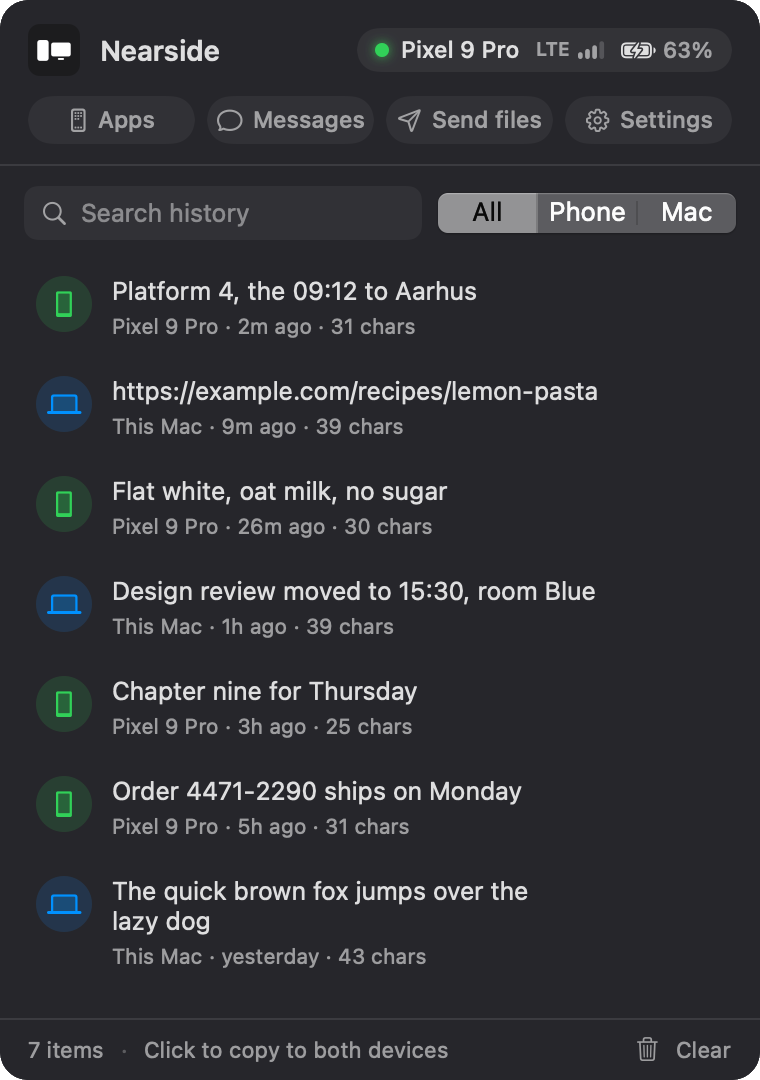
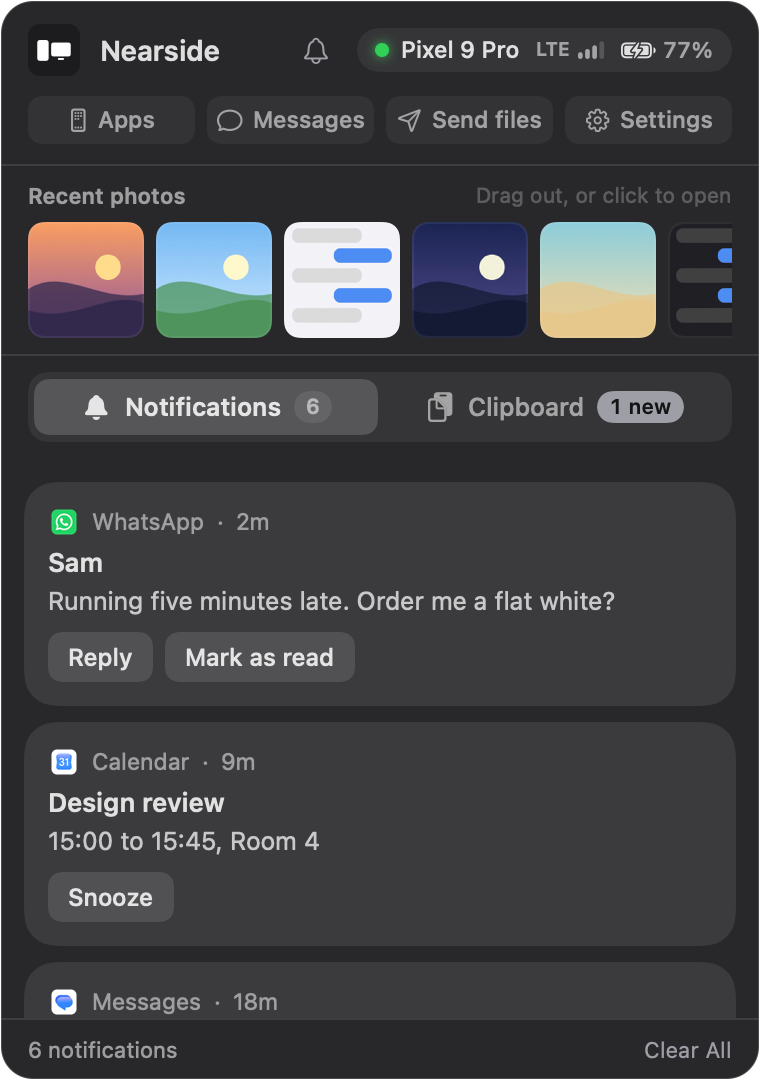
README and site: download buttons, new tagline, current panel pictures
- Download buttons link to releases/latest/download/<fixed name>, so they always
  get the newest version; the release scripts make those copies. The site gets a
  three-step Get Nearside section (with the unsigned-installer note) and puts the
  Windows button first on Windows.
- Tagline: Continuity the way it was meant to be.
- The panel pictures show today's panel (photos, Notifications and Clipboard
  tabs), with sample content from a new test mode (NEARSIDE_TEST_DEMO) that
  never touches the saved history.

diff --git a/site/index.html b/site/index.html
@@ -5,7 +5,7 @@
 <meta name="viewport" content="width=device-width, initial-scale=1">
 <title>Nearside: Continuity for Android, on your Mac or PC</title>
 <meta name="description" content="The most seamless way to use an Android phone with a Mac or a Windows PC: one clipboard, notifications, texts and calls, files, and every phone app in its own window. Open source, no cloud, no account.">
-<meta property="og:title" content="Nearside: Continuity, without the lock-in">
+<meta property="og:title" content="Nearside: Continuity the way it was meant to be">
 <meta property="og:description" content="Use the Android phone you want with the Mac or PC you want: one clipboard, notifications, texts, calls, files and every phone app in its own window. Open source, no cloud.">
 <meta property="og:image" content="https://ramiejleh.github.io/Nearside/images/hero.jpg">
 <meta name="theme-color" content="#E8E9EC" media="(prefers-color-scheme: light)">
@@ -33,6 +33,7 @@
     <a href="#apps">Phone apps</a>
     <a href="#everyday">Everyday</a>
     <a href="#how">How it works</a>
+    <a href="#download">Download</a>
     <a href="#tested">Tested</a>
     <a href="#support">Support</a>
     <a class="pill" href="https://github.com/ramiejleh/Nearside">GitHub</a>
@@ -44,13 +45,13 @@
   <!-- The one orchestrated moment: things cross from the phone to the Mac. -->
   <section class="hero">
     <div class="hero-text">
-      <h1>Continuity, without the lock&#8209;in.</h1>
+      <h1>Continuity the way it was meant to be.</h1>
       <p class="lede">The most seamless way to use an Android phone with a Mac or a Windows PC. Copy on one and paste on the other, answer notifications, texts and calls from your computer, drop files either way, and open any phone app in its own window, with the phone still locked in your pocket.</p>
       <div class="actions">
-        <a class="button primary" href="https://github.com/ramiejleh/Nearside">View on GitHub</a>
-        <a class="button" href="#how">How it works</a>
+        <a class="button primary" data-os="mac" href="https://github.com/ramiejleh/Nearside/releases/latest/download/Nearside-mac.zip">Download for Mac</a>
+        <a class="button" data-os="windows" href="https://github.com/ramiejleh/Nearside/releases/latest/download/Nearside-windows-x64.exe">Download for Windows</a>
       </div>
-      <p class="fine">Free and open source. macOS 14 or later, or Windows 11; Android 11 or later. No cloud, no account.</p>
+      <p class="fine">Free and open source. macOS 14 or later, or Windows 11 (<a href="https://github.com/ramiejleh/Nearside/releases/latest/download/Nearside-windows-arm64.exe">for Arm PCs</a>); Android 11 or later. No cloud, no account. <a href="#download">How to set it up</a>.</p>
     </div>
 
     <div class="stage" role="img" aria-label="A clip and a phone app travel from an Android phone to a Mac, then a message arrives on both at once">
@@ -153,7 +154,7 @@
       </div>
 
       <div class="pair flip">
-        <img src="images/window-notifications.png" alt="The phone window's notification panel with notifications, their buttons and reply" loading="lazy">
+        <img src="images/window-panel-notifications.png" alt="Nearside's panel: the phone's recent photos and its notifications, with their buttons (sample content)" loading="lazy">
         <div>
           <h3>Notifications you can act on</h3>
           <p>Your phone's notifications arrive as real macOS or Windows notifications, with their buttons and inline replies, and the panel lists what's on the phone now. Dismiss one on either device and it's gone on both, open it in a window right where it points, or mute them all for a few hours.</p>
@@ -212,6 +213,28 @@
     </div>
   </section>
 
+  <section id="download" class="download">
+    <div class="wrap">
+      <h2>Get Nearside.</h2>
+      <p class="intro">Three steps, about five minutes. Nothing to sign up for.</p>
+      <ol class="steps">
+        <li>
+          <h3>Download it</h3>
+          <p><a href="https://github.com/ramiejleh/Nearside/releases/latest/download/Nearside-mac.zip">For Mac</a> (macOS 14 or later): open the zip and drag Nearside to Applications. <a href="https://github.com/ramiejleh/Nearside/releases/latest/download/Nearside-windows-x64.exe">For Windows</a> (Windows 11; <a href="https://github.com/ramiejleh/Nearside/releases/latest/download/Nearside-windows-arm64.exe">Arm PCs</a>): run the installer.</p>
+        </li>
+        <li>
+          <h3>Open it</h3>
+          <p>It shows a QR code. On Windows, the installer isn't code-signed yet (a certificate costs money every year), so Windows says it protected your PC: choose <b>More info</b>, then <b>Run anyway</b>.</p>
+        </li>
+        <li>
+          <h3>Scan it with your phone</h3>
+          <p>On the phone, turn on <b>Developer options &rarr; Wireless debugging</b>, choose <b>Pair device with QR code</b> and scan. Your computer installs the phone app and does the rest. No Developer options yet? In <b>Settings &rarr; About phone</b>, tap <b>Build number</b> seven times.</p>
+        </li>
+      </ol>
+      <p class="fine">Both apps update themselves, and the phone app with them. Every version, with checksums, is on <a href="https://github.com/ramiejleh/Nearside/releases">GitHub</a>.</p>
+    </div>
+  </section>
+
   <section id="support" class="support">
     <div class="wrap">
       <h2>Keep it free and getting better.</h2>
@@ -225,6 +248,15 @@
   </section>
 
 </main>
+
+<script>
+  // On Windows, the Windows download comes first.
+  if (/Windows/.test(navigator.userAgent)) {
+    const mac = document.querySelector('[data-os="mac"]'), win = document.querySelector('[data-os="windows"]');
+    mac.classList.remove('primary'); win.classList.add('primary');
+    win.parentNode.insertBefore(win, mac);
+  }
+</script>
 
 <footer class="foot">
   <div class="wrap">

diff --git a/mac/Sources/Nearside/DemoContent.swift b/mac/Sources/Nearside/DemoContent.swift
@@ -1,0 +1,80 @@
+import AppKit
+import NearsideCore
+
+/// Sample clips and photos for pictures of the panel (NEARSIDE_TEST_DEMO=1): made up and drawn
+/// here, so no one's own content ever appears in the README or on the website.
+enum DemoContent {
+    static var clips: [ClipItem] {
+        let now = Date()
+        func clip(_ text: String, _ source: ClipItem.Source, _ minutes: Double) -> ClipItem {
+            ClipItem(text: text, source: source, date: now.addingTimeInterval(-minutes * 60))
+        }
+        return [
+            clip("Platform 4, the 09:12 to Aarhus", .android, 2),
+            clip("https://example.com/recipes/lemon-pasta", .mac, 9),
+            clip("Flat white, oat milk, no sugar", .android, 26),
+            clip("Design review moved to 15:30, room Blue", .mac, 64),
+            clip("Chapter nine for Thursday", .android, 180),
+            clip("Order 4471-2290 ships on Monday", .android, 300),
+        ]
+    }
+
+    /// Landscapes and two screenshots, drawn as JPEG thumbnails.
+    static var photos: [(PhonePhoto, Data)] {
+        let now = Date()
+        let scenes: [(sky: (NSColor, NSColor), land: NSColor, sun: NSColor?, screenshot: Bool)] = [
+            ((.init(red: 0.98, green: 0.62, blue: 0.38, alpha: 1), .init(red: 0.55, green: 0.33, blue: 0.62, alpha: 1)), .init(red: 0.2, green: 0.16, blue: 0.3, alpha: 1), .init(red: 1, green: 0.86, blue: 0.55, alpha: 1), false),
+            ((.init(red: 0.45, green: 0.72, blue: 0.95, alpha: 1), .init(red: 0.82, green: 0.92, blue: 1, alpha: 1)), .init(red: 0.3, green: 0.58, blue: 0.36, alpha: 1), .init(red: 1, green: 0.97, blue: 0.8, alpha: 1), false),
+            ((.init(red: 0.95, green: 0.95, blue: 0.97, alpha: 1), .init(red: 0.95, green: 0.95, blue: 0.97, alpha: 1)), .white, nil, true),
+            ((.init(red: 0.1, green: 0.14, blue: 0.32, alpha: 1), .init(red: 0.32, green: 0.3, blue: 0.55, alpha: 1)), .init(red: 0.08, green: 0.1, blue: 0.2, alpha: 1), .init(red: 0.95, green: 0.95, blue: 0.85, alpha: 1), false),
+            ((.init(red: 0.55, green: 0.8, blue: 0.85, alpha: 1), .init(red: 0.95, green: 0.88, blue: 0.7, alpha: 1)), .init(red: 0.9, green: 0.78, blue: 0.55, alpha: 1), nil, false),
+            ((.init(red: 0.12, green: 0.12, blue: 0.14, alpha: 1), .init(red: 0.12, green: 0.12, blue: 0.14, alpha: 1)), .black, nil, true),
+        ]
+        return scenes.enumerated().map { i, scene in
+            let name = scene.screenshot ? "Screenshot_demo_\(i).png" : "PXL_demo_\(i).jpg"
+            let photo = PhonePhoto(id: Int64(9_000 + i), name: name, path: "/sdcard/DCIM/\(name)",
+                                   date: now.addingTimeInterval(Double(-i) * 3_600), isScreenshot: scene.screenshot,
+                                   width: 1080, height: 1080, size: 1)
+            return (photo, thumbnail(scene.sky, scene.land, scene.sun, screenshot: scene.screenshot))
+        }
+    }
+
+    private static func thumbnail(_ sky: (NSColor, NSColor), _ land: NSColor, _ sun: NSColor?, screenshot: Bool) -> Data {
+        let size = 256
+        let rep = NSBitmapImageRep(bitmapDataPlanes: nil, pixelsWide: size, pixelsHigh: size, bitsPerSample: 8, samplesPerPixel: 4,
+                                   hasAlpha: true, isPlanar: false, colorSpaceName: .deviceRGB, bytesPerRow: 0, bitsPerPixel: 0)!
+        NSGraphicsContext.saveGraphicsState()
+        NSGraphicsContext.current = NSGraphicsContext(bitmapImageRep: rep)
+        let s = CGFloat(size)
+        NSGradient(starting: sky.1, ending: sky.0)!.draw(in: NSRect(x: 0, y: 0, width: s, height: s), angle: 90)
+        if screenshot {
+            // A chat-like screen: bars of text in bubbles.
+            let dark = sky.0.brightnessComponent < 0.5
+            let bubble = dark ? NSColor(white: 0.25, alpha: 1) : NSColor(white: 0.86, alpha: 1)
+            let accent = NSColor(red: 0.3, green: 0.55, blue: 0.95, alpha: 1)
+            for (j, mine) in [false, true, false, true, false].enumerated() {
+                let width = s * (mine ? 0.5 : 0.6)
+                let rect = NSRect(x: mine ? s - width - 18 : 18, y: s - 46 - CGFloat(j) * 44, width: width, height: 32)
+                (mine ? accent : bubble).setFill()
+                NSBezierPath(roundedRect: rect, xRadius: 14, yRadius: 14).fill()
+            }
+        } else {
+            if let sun {
+                sun.setFill()
+                NSBezierPath(ovalIn: NSRect(x: s * 0.58, y: s * 0.5, width: s * 0.22, height: s * 0.22)).fill()
+            }
+            land.withAlphaComponent(0.75).setFill()
+            let far = NSBezierPath()
+            far.move(to: NSPoint(x: 0, y: s * 0.42))
+            far.curve(to: NSPoint(x: s, y: s * 0.38), controlPoint1: NSPoint(x: s * 0.3, y: s * 0.62), controlPoint2: NSPoint(x: s * 0.62, y: s * 0.3))
+            far.line(to: NSPoint(x: s, y: 0)); far.line(to: .zero); far.close(); far.fill()
+            land.setFill()
+            let near = NSBezierPath()
+            near.move(to: NSPoint(x: 0, y: s * 0.24))
+            near.curve(to: NSPoint(x: s, y: s * 0.3), controlPoint1: NSPoint(x: s * 0.4, y: s * 0.12), controlPoint2: NSPoint(x: s * 0.7, y: s * 0.42))
+            near.line(to: NSPoint(x: s, y: 0)); near.line(to: .zero); near.close(); near.fill()
+        }
+        NSGraphicsContext.restoreGraphicsState()
+        return rep.representation(using: .jpeg, properties: [.compressionFactor: 0.85]) ?? Data()
+    }
+}

diff --git a/core/Sources/NearsideCore/SyncEngine.swift b/core/Sources/NearsideCore/SyncEngine.swift
@@ -96,6 +96,19 @@ public final class SyncEngine {
     }
 
     private var demoNotifications = false
+    /// Sample content (pictures): nothing is saved, and the phone's clips don't replace it.
+    private var demoContent = false
+
+    /// Test hook (pictures for the README and website): sample notifications, clipboard history and
+    /// photos in place of the phone's, in memory only (the history file isn't touched), until the
+    /// app quits. The newest clip shows as just arrived.
+    public func showDemoContent(notifications: [PhoneNotification], clips: [ClipItem], photos: [(PhonePhoto, Data)]) {
+        showDemoNotifications(notifications)
+        demoContent = true
+        history = ClipHistory(items: clips, limit: history.limit)
+        unseenIDs = Set(clips.prefix(1).map(\.id))
+        self.photos.showDemo(photos)
+    }
 
     /// SMS for the Messages window.
     public let messages = MessagesStore()
@@ -613,7 +626,7 @@ public final class SyncEngine {
         case "share-failed":
             if let pkg = message["pkg"] as? String { onShareFailed?(pkg, message["accepts"] as? Bool ?? false) }
         case "clip":
-            guard state == .connected, clipboardSync, let text = message["text"] as? String, !text.isEmpty else { return }
+            guard state == .connected, clipboardSync, !demoContent, let text = message["text"] as? String, !text.isEmpty else { return }
             pasteboard.write(text)
             let item = history.add(text, source: .android)
             unseenIDs.insert(item.id)
@@ -935,7 +948,7 @@ public final class SyncEngine {
     private func macCopied(_ text: String) {
         // Nothing is kept while the phone isn't connected (the panel shows no history then), or
         // while clipboard sync is off.
-        guard state == .connected, clipboardSync else { return }
+        guard state == .connected, clipboardSync, !demoContent else { return }
         history.add(text, source: .mac)
         persist()
         if state == .connected {
@@ -1000,6 +1013,7 @@ public final class SyncEngine {
     }
 
     private func persist() {
+        guard !demoContent else { return } // sample clips never replace the saved history
         defaults.set(history.limit, forKey: "historyLimit")
         saveSettingsNow()
         try? history.save(to: Paths.history)

diff --git a/site/styles.css b/site/styles.css
@@ -220,7 +220,7 @@ p { margin: 0; max-width: 62ch; }
 figcaption { margin-top: 12px; font-size: 15px; color: var(--on-dusk-soft); text-align: center; }
 
 /* Everyday */
-.why, .everyday, .how, .tested, .support { padding: clamp(64px, 9vw, 128px) 0; }
+.why, .everyday, .how, .download, .tested, .support { padding: clamp(64px, 9vw, 128px) 0; }
 .pair { display: grid; grid-template-columns: minmax(0, 5fr) minmax(0, 6fr); gap: clamp(28px, 5vw, 80px); align-items: center; margin-top: 56px; }
 .pair img { width: min(100%, 345px); max-height: 78vh; object-fit: contain; justify-self: center; }
 .pair p { margin-top: 12px; color: var(--soft); font-size: 19px; }
@@ -245,6 +245,16 @@ figcaption { margin-top: 12px; font-size: 15px; color: var(--on-dusk-soft); text
 .promises b { color: var(--ink); }
 @media (max-width: 800px) { .promises { grid-template-columns: 1fr; } }
 
+
+/* Get Nearside: three steps. */
+.download { background: var(--surface); }
+.steps { list-style: none; counter-reset: step; margin: 40px 0 0; padding: 0; display: grid; grid-template-columns: repeat(3, minmax(0, 1fr)); gap: 32px 48px; }
+.steps li { counter-increment: step; }
+.steps li::before { content: counter(step); display: grid; place-items: center; width: 36px; height: 36px; border-radius: 50%; border: 1.5px solid var(--line); font-weight: 700; margin-bottom: 14px; }
+.steps h3 { font-size: 20px; }
+.steps p { margin-top: 8px; color: var(--soft); }
+.steps b { color: var(--ink); font-weight: 600; }
+@media (max-width: 800px) { .steps { grid-template-columns: 1fr; } }
 
 /* Support */
 .support { text-align: center; }

diff --git a/core/Sources/NearsideCore/RecentPhotos.swift b/core/Sources/NearsideCore/RecentPhotos.swift
@@ -73,6 +73,15 @@ public final class RecentPhotos {
         send(["t": "photos-watch", "on": now])
     }
 
+    /// Sample photos (pictures for the README): shown instead of the phone's until the app quits.
+    @ObservationIgnored private var demo = false
+
+    public func showDemo(_ photos: [(PhonePhoto, Data)]) {
+        demo = true
+        items = photos.map(\.0)
+        thumbnails = Dictionary(uniqueKeysWithValues: photos.map { ($0.0.id, $0.1) })
+    }
+
     public func panelOpened() { setWatching("panel", true) }
     public func panelClosed() { setWatching("panel", false) }
 
@@ -85,12 +94,14 @@ public final class RecentPhotos {
 
     func connectionLost() {
         connected = false
+        guard !demo else { return }
         items = []
         thumbnails = [:]
         requested = []
     }
 
     func handle(_ message: [String: Any]) {
+        guard !demo else { return }
         switch message["t"] as? String {
         case "photos":
             denied = message["denied"] as? Bool ?? false

diff --git a/mac/Sources/Nearside/NearsideApp.swift b/mac/Sources/Nearside/NearsideApp.swift
@@ -186,6 +186,12 @@ final class AppDelegate: NSObject, NSApplicationDelegate {
         default: (AnyView(PanelView(engine: engine, openMessages: {}, openSetup: {}, openApps: {})), NSSize(width: 380, height: 540))
         }
         let dark = env["NEARSIDE_TEST_DARK"] == "1"
+        // NEARSIDE_TEST_DEMO=1: sample notifications, clips and photos (nothing of yours), and
+        // NEARSIDE_TEST_TAB=notifications|clipboard picks the panel's tab.
+        if env["NEARSIDE_TEST_DEMO"] == "1" {
+            engine.showDemoContent(notifications: PhoneWindowController.demoNotifications, clips: DemoContent.clips, photos: DemoContent.photos)
+            if let tab = env["NEARSIDE_TEST_TAB"] { PanelView.tabStore.set(tab, forKey: "Panel.tab") }
+        }
         let window = NSWindow(contentRect: NSRect(origin: NSPoint(x: -3000, y: 0), size: size), styleMask: [.borderless],
                               backing: .buffered, defer: false)
         let view = NSHostingView(rootView: root.tint(Theme.accent))

diff --git a/mac/Sources/Nearside/PanelView.swift b/mac/Sources/Nearside/PanelView.swift
@@ -11,7 +11,10 @@ struct PanelView: View {
     @State private var highlighted: Set<UUID> = []
     @State private var showingSettings = false
     @State private var dropTargeted = false
-    @AppStorage("Panel.tab") private var tab = PanelTab.notifications.rawValue
+    @AppStorage("Panel.tab", store: PanelView.tabStore) private var tab = PanelTab.notifications.rawValue
+    /// Pictures (NEARSIDE_TEST_DEMO) keep their tab apart, so taking them never changes yours.
+    static let tabStore: UserDefaults = ProcessInfo.processInfo.environment["NEARSIDE_TEST_DEMO"] == "1"
+        ? UserDefaults(suiteName: "dev.nearside.test") ?? .standard : .standard
 
     var body: some View {
         VStack(spacing: 0) {

diff --git a/mac/Sources/Nearside/Phone/PhoneWindowController.swift b/mac/Sources/Nearside/Phone/PhoneWindowController.swift
@@ -178,7 +178,7 @@ final class PhoneWindowController: NSObject, NSWindowDelegate {
     }
 
     /// Made-up notifications for pictures (NEARSIDE_TEST_DEMO_NOTIFICATIONS=1).
-    private static var demoNotifications: [PhoneNotification] {
+    static var demoNotifications: [PhoneNotification] {
         let now = Date()
         func note(_ pkg: String, _ app: String, _ title: String, _ text: String, _ minutes: Double, _ actions: [(String, Bool)]) -> PhoneNotification {
             PhoneNotification(key: "demo|\(pkg)|\(minutes)", package: pkg, app: app, title: title, text: text,

diff --git a/README.md b/README.md
@@ -4,8 +4,8 @@
 
 # Nearside
 
-**The most seamless way to use an Android phone with a Mac or a Windows PC.**
-Continuity, without being locked into one company's phone and laptop.
+**Continuity the way it was meant to be.**
+The most seamless way to use an Android phone with a Mac or a Windows PC.
 
 [![License: AGPL v3](https://img.shields.io/badge/license-AGPL%20v3-blue.svg)](LICENSE)
 [![macOS 14+](https://img.shields.io/badge/macOS-14%2B-000000?logo=apple&logoColor=white)](docs/getting-started.md#requirements)
@@ -14,6 +14,8 @@ Continuity, without being locked into one company's phone and laptop.
 [![CI](https://github.com/ramiejleh/Nearside/actions/workflows/ci.yml/badge.svg)](https://github.com/ramiejleh/Nearside/actions/workflows/ci.yml)
 [![Status: alpha](https://img.shields.io/badge/status-alpha-orange)](docs/getting-started.md#status)
 [![Sponsor](https://img.shields.io/badge/sponsor-GitHub-ea4aaa?logo=githubsponsors&logoColor=white)](https://github.com/sponsors/ramiejleh)
+
+**[Download for Mac](https://github.com/ramiejleh/Nearside/releases/latest/download/Nearside-mac.zip)** · **[Download for Windows](https://github.com/ramiejleh/Nearside/releases/latest/download/Nearside-windows-x64.exe)** ([Arm PCs](https://github.com/ramiejleh/Nearside/releases/latest/download/Nearside-windows-arm64.exe))
 
 [Website](https://ramiejleh.github.io/Nearside/) · [Features](#features) · [Get started](#get-started) ·
 [Support](#support-the-project)
@@ -109,8 +111,9 @@ Every feature in detail, with the keyboard shortcuts and the differences on Wind
 You need **macOS 14** or later or **Windows 11**, and an **Android 11** or later phone on the
 same Wi-Fi.
 
-1. **Install Nearside** from the [latest release](https://github.com/ramiejleh/Nearside/releases/latest):
-   the zip for the Mac, or the installer for Windows. On a Mac you can also use Homebrew:
+1. **Download Nearside:** [for Mac](https://github.com/ramiejleh/Nearside/releases/latest/download/Nearside-mac.zip) (open the zip and drag Nearside to
+   Applications) or [for Windows](https://github.com/ramiejleh/Nearside/releases/latest/download/Nearside-windows-x64.exe) ([Arm PCs](https://github.com/ramiejleh/Nearside/releases/latest/download/Nearside-windows-arm64.exe);
+   run the installer). On a Mac you can also use Homebrew:
 
    ```sh
    brew tap ramiejleh/tap
@@ -118,7 +121,9 @@ same Wi-Fi.
    ```
 
 2. **Open it.** A setup assistant shows a QR code.
-3. **On the phone**, turn on **Developer options → Wireless debugging** and scan the code.
+3. **On the phone**, turn on **Developer options → Wireless debugging**, choose **Pair device with
+   QR code** and scan it. No Developer options yet? In **Settings → About phone**, tap **Build
+   number** seven times.
 
 That's the only time you touch the phone: the computer installs the phone app and does the rest.
 Updates arrive by themselves, for the computer and the phone.

diff --git a/docs/getting-started.md b/docs/getting-started.md
@@ -12,9 +12,8 @@
 
 ### Mac
 
-Download `Nearside-<version>.zip` from the
-[latest release](https://github.com/ramiejleh/Nearside/releases/latest), unzip it and move
-Nearside to Applications. Or, with [Homebrew](https://brew.sh):
+[Download Nearside for Mac](https://github.com/ramiejleh/Nearside/releases/latest/download/Nearside-mac.zip) (always the newest
+version), unzip it and move Nearside to Applications. Or, with [Homebrew](https://brew.sh):
 
 ```sh
 brew tap ramiejleh/tap
@@ -26,8 +25,8 @@ Releases are signed and notarised by Apple. Nearside checks for updates by itsel
 
 ### Windows
 
-Download `Nearside-<version>-x64.exe` (or `-arm64.exe` for Arm PCs) from the same release and run
-it. A winget package will follow.
+[Download Nearside for Windows](https://github.com/ramiejleh/Nearside/releases/latest/download/Nearside-windows-x64.exe) (or
+[for Arm PCs](https://github.com/ramiejleh/Nearside/releases/latest/download/Nearside-windows-arm64.exe)) and run it. A winget package will follow.
 
 **The installer isn't code-signed yet.** A code-signing certificate costs money every year, so for
 now Windows shows "Windows protected your PC" when you run it: choose **More info**, then **Run

diff --git a/docs/development-mac.md b/docs/development-mac.md
@@ -75,6 +75,8 @@ without clicking:
 | `NEARSIDE_TEST_PHONE` | Phone window: `recents`, `notifications`, `close`, `bar`, `drag` |
 | `NEARSIDE_TEST_DISMISS` | With `NEARSIDE_TEST_PHONE=notifications`: dismiss the first notification from this app |
 | `NEARSIDE_TEST_WAIT` | Seconds before the phone-window test runs |
+| `NEARSIDE_TEST_DEMO` | `1`: with `NEARSIDE_TEST_VIEW=panel`, sample notifications, clips and photos instead of yours (nothing saved; for the README and website) |
+| `NEARSIDE_TEST_TAB` | With `NEARSIDE_TEST_DEMO`: the panel's tab, `notifications` or `clipboard` (kept apart from your own choice) |
 | `NEARSIDE_TEST_DEMO_NOTIFICATIONS` | `1`: with `NEARSIDE_TEST_PHONE=notifications`, the panel shows made-up notifications (for pictures) |
 | `NEARSIDE_TEST_DOCK` | The phone window's dock: comma-separated packages instead of your favourites |
 | `NEARSIDE_TEST_OVERLAY` | Output PNG for the overlay, phone-window and `NEARSIDE_TEST_VIEW` snapshots |

diff --git a/docs/releasing.md b/docs/releasing.md
@@ -60,7 +60,10 @@ the scripts read them from the environment or the keychain.
 4. **Try them.** Install each on a clean account, check that it connects, and check that the
    phone app updates.
 5. **Tag and publish.** Tag `v<version>`, push the tag, and make a GitHub release with the zip,
-   both installers and their checksums.
+   both installers and their checksums, plus the copies under fixed names the scripts make
+   (`Nearside-mac.zip`, `Nearside-windows-x64.exe`, `Nearside-windows-arm64.exe`). The website's
+   and README's download buttons link to `releases/latest/download/<that name>`, so they always
+   get the newest release.
 6. **Then the feeds.** Commit both appcast entries and push to `main`; Pages publishes them.
    Never before the release exists, or computers fetch a missing file.
 7. **Package managers.** Copy the cask into the tap's `Casks/`, and open a pull request to
